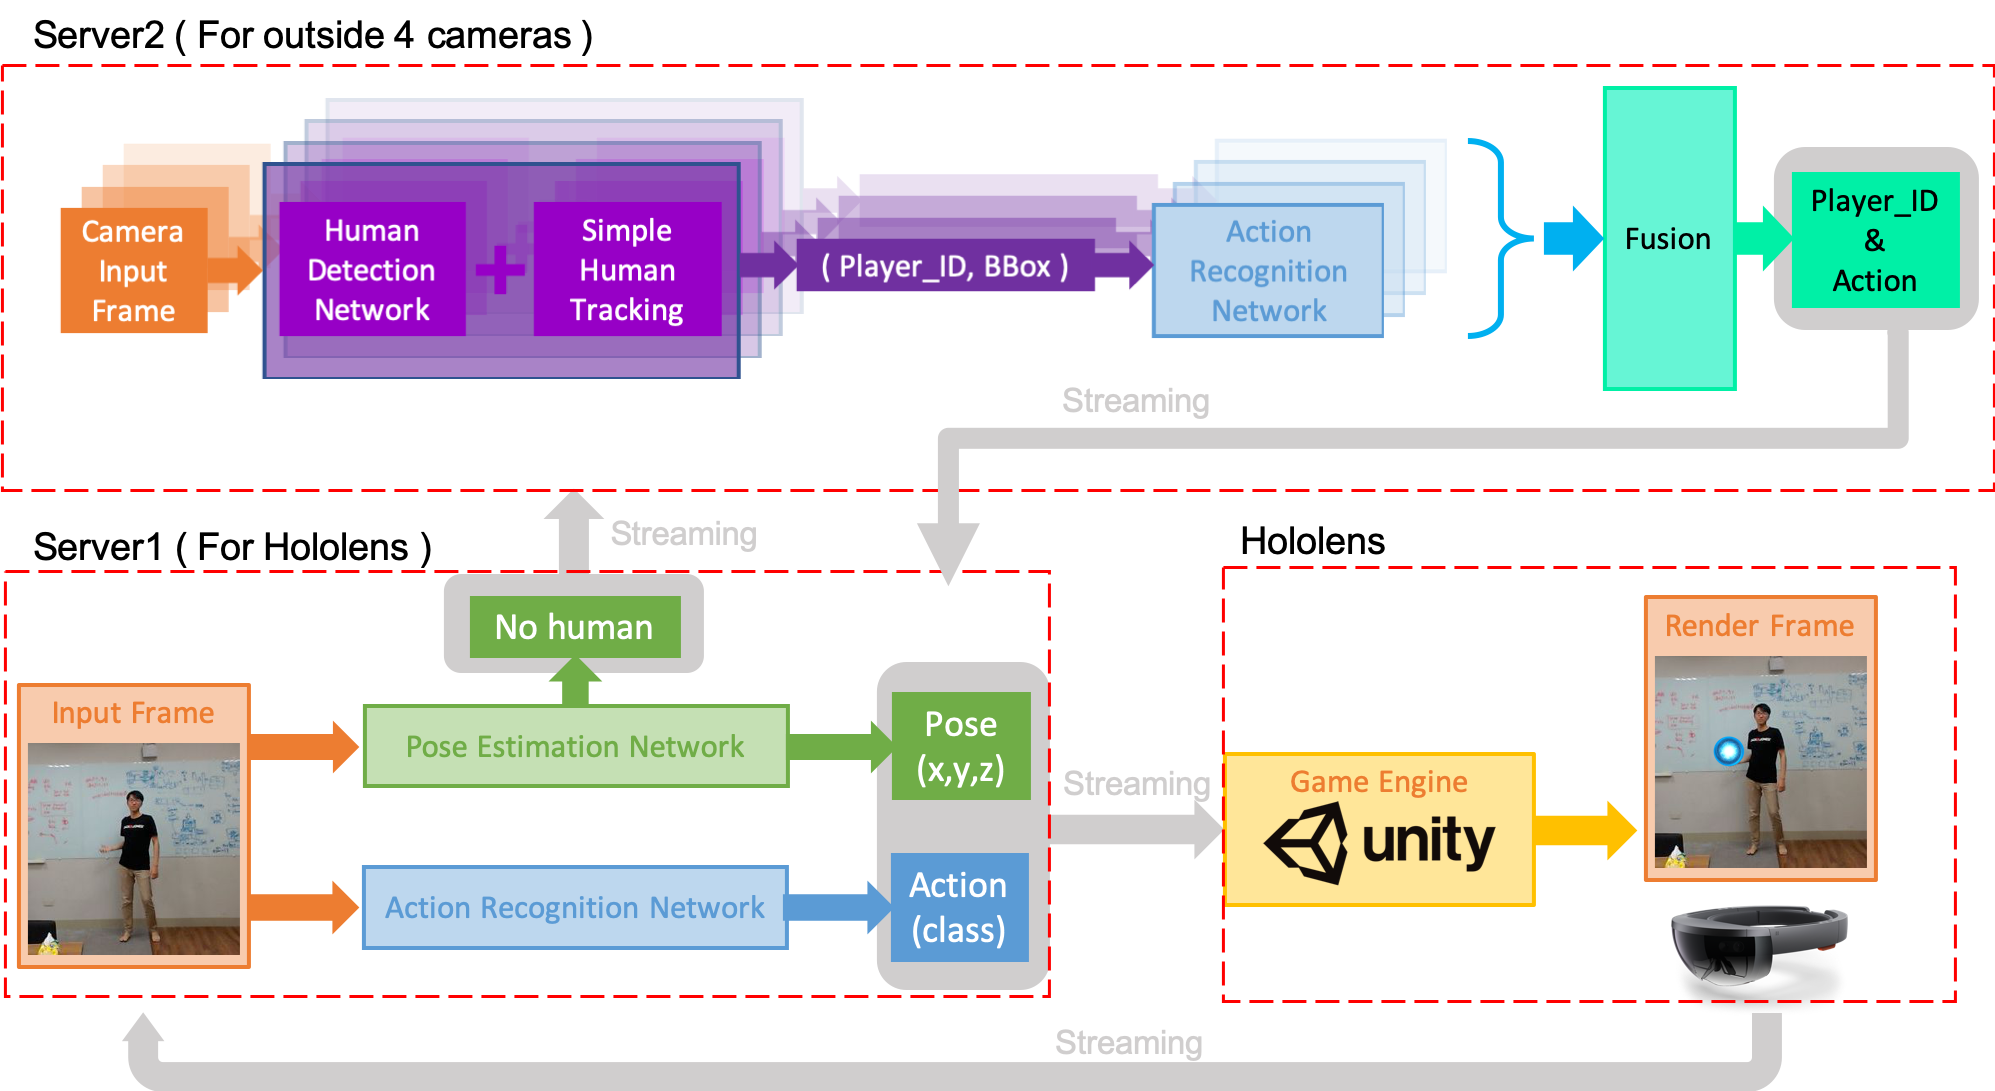
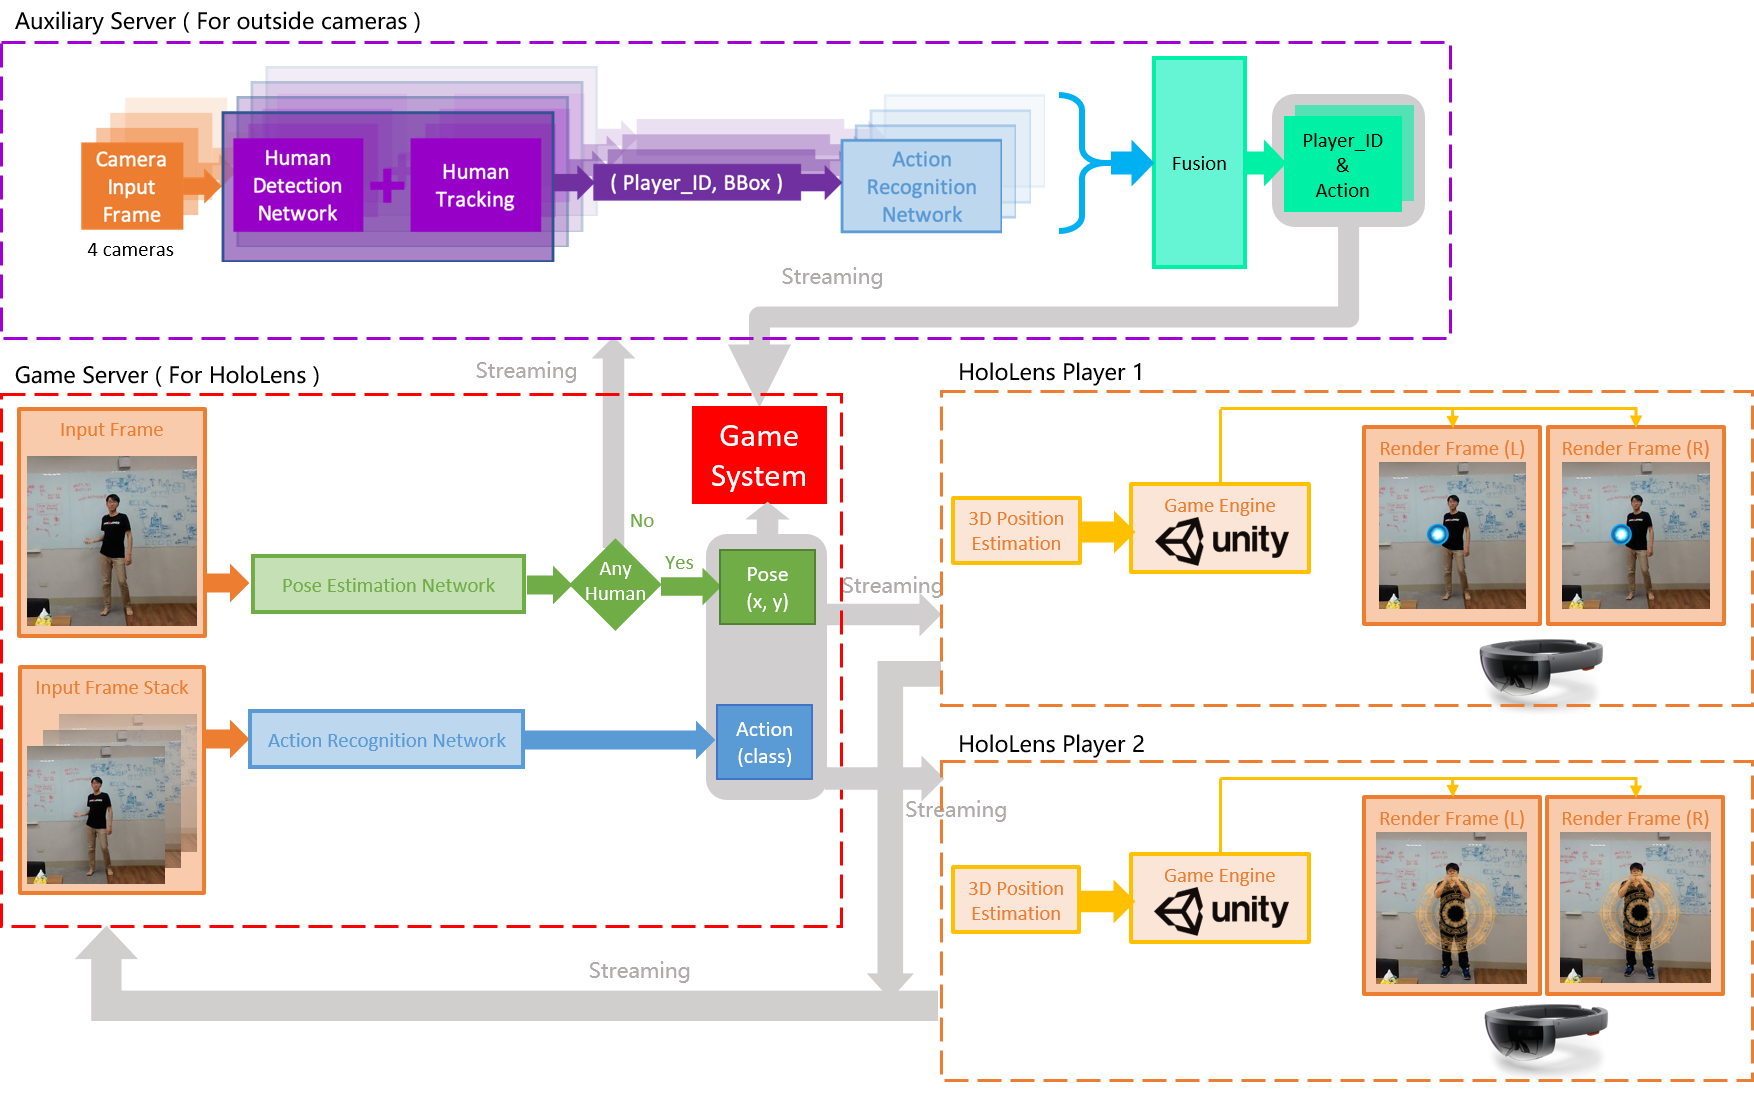
update README

diff --git a/Core/tsn_pytorch/README.md b/Core/tsn_pytorch/README.md
@@ -28,54 +28,8 @@ set PYTHONPATH：
 
 ## Training
 
-To train a new model, use the `main.py` script.
-
-The command to reproduce the original TSN experiments of RGB modality on UCF101 can be 
-
-```bash
-python main.py ucf101 RGB <ucf101_rgb_train_list> <ucf101_rgb_val_list> \
-   --arch BNInception --num_segments 3 \
-   --gd 20 --lr 0.001 --lr_steps 30 60 --epochs 80 \
-   -b 128 -j 8 --dropout 0.8 \
-   --snapshot_pref ucf101_bninception_ 
-```
-
-For flow models:
-
-```bash
-python main.py ucf101 Flow <ucf101_flow_train_list> <ucf101_flow_val_list> \
-   --arch BNInception --num_segments 3 \
-   --gd 20 --lr 0.001 --lr_steps 190 300 --epochs 340 \
-   -b 128 -j 8 --dropout 0.7 \
-   --snapshot_pref ucf101_bninception_ --flow_pref flow_  
-```
-
-For RGB-diff models:
-
-```bash
-python main.py ucf101 RGBDiff <ucf101_rgb_train_list> <ucf101_rgb_val_list> \
-   --arch BNInception --num_segments 7 \
-   --gd 40 --lr 0.001 --lr_steps 80 160 --epochs 180 \
-   -b 128 -j 8 --dropout 0.8 \
-   --snapshot_pref ucf101_bninception_ 
-```
+[tsn_train.py](tsn_train.py)
 
 ## Testing
 
-After training, there will checkpoints saved by pytorch, for example `ucf101_bninception_rgb_checkpoint.pth`.
-
-Use the following command to test its performance in the standard TSN testing protocol:
-
-```bash
-python test_models.py ucf101 RGB <ucf101_rgb_val_list> ucf101_bninception_rgb_checkpoint.pth \
-   --arch BNInception --save_scores <score_file_name>
-
-```
-
-Or for flow models:
- 
-```bash
-python test_models.py ucf101 Flow <ucf101_rgb_val_list> ucf101_bninception_flow_checkpoint.pth \
-   --arch BNInception --save_scores <score_file_name> --flow_pref flow_
-
-```
+[tsn_test.py](tsn_test.py)

diff --git a/README.md b/README.md
@@ -9,7 +9,7 @@
 
 ***
 
-## FlowChart
+## FlowChart and Scenario
 
 玩家穿戴 MR 眼鏡拍攝對手的肢體動作，透過wifi將影像傳送至運算伺服器，根據預訓練之深度類神經網路模型估測出對手的2D人體姿態與動作類別，根據目前做的動作類別，在定義好的骨架節點觸發相對應的特效，將觸發節點之位置與對應特效的資訊傳回AR眼鏡端，由眼鏡裝置繪製特效，產生虛實對應的AR效果。例如 "火影忍者" 當中許多 "忍術" 可以透過此方法把特效添加在真實人物上。
 
@@ -18,7 +18,11 @@
 
 ***
 
-![image](etcs/Flow_Chart2.JPG)
+![image](etcs/my_scene.png)
+
+***
+
+![image](etcs/Scenario.png)
 
 ***
 
@@ -26,15 +30,11 @@
 
 ***
 
-## Server1 & Hololens
-
-![image](etcs/1.png)
-
 ### 例如螺旋丸：  
-![image](etcs/4.gif)
+![image](etcs/2.gif)
 
 ### 在Hololens眼鏡裡面就會看到這樣：  
-![image](etcs/3.JPG)
+![image](etcs/3D_panel_demo.jpg)
 
 ***
 
@@ -123,6 +123,8 @@ Version：
 - pytorch 0.4.1
 - torchvision 0.2.1
 
+***
+
 ## Pose Estimation Network
 
 [OpenPose using Tensorflow](https://github.com/ildoonet/tf-pose-estimation)
@@ -132,3 +134,12 @@ Version：
 ## Action Recognition Network
 
 [TSN using PyTorch](https://github.com/yjxiong/tsn-pytorch)
+
+***
+
+## Quick Start
+
+如果是要搭建沒有 outside camera 的系統，總共需要有一台電腦 + 一台或是兩台HoloLens，PC端運行Server1.py，接著開啟HoloLnes內的程式進行連接。
+
+Server1 的環境搭建 : [Server1 Setup](Server1/README.md)
+HoloLens APP Installation : [HoloLens Setup](Hololens_Unity/README.md)

diff --git a/Server1/README.md b/Server1/README.md
@@ -1,23 +1,7 @@
-# Server(PC端)
+# Server1(PC端)
 
-- TSN_Training：我們必須先把 Action Recognintion Network 訓練好，並產生 .pth 的檔案給 pytorch model 用
-- Run_Hololens：裡面已經包含 OpenPose跟TSN model，可以直接連上 Hololens
+Server1 這邊總共需要用到2個建立 Deep Learning 環境的資料夾 [OpenPose_TF](../Core/OpenPose_TF/README.md) 、 [tsn_pytorch](../Core/tsn_pytorch/README.md)。
 
-***
+環境設定完畢後，就可以運行 [Server1.py](Server1.py)。
 
-## TSN_Training
-
-Training 時，到資料夾內執行：  
-```python main_two_class.py ucf101 RGB D:\Dataset\Action\my_dataset\my_train.txt D:\Dataset\Action\my_dataset\my_test.txt --arch resnet34 --num_segments 3 --gd 20 --lr 0.001 --lr_steps 30 60 --epochs 60 -b 16 -j 0 --dropout 0.8 --gpus 0```
-*my_train.txt 跟 my_test.txt 怎麼產生的可以到 my_dataset 資料夾裡面看一下說明.txt*
-
-
-Testing 時，到資料夾內執行：  
-```python run_ex_two_class.py ucf101 RGB D:\Dataset\Action\my_dataset\my_test.txt _rgb_checkpoint.pth.tar --arch resnet34```
-
-***
-
-## Run_Hololens
-
-裡面已經包含OpenPose的code跟TSN的code，執行run_holo.py即可。
-不過如果要連Hololens，要先去Hololens打開```OPENCV_3```這個APP，接著才去Server端執行run_holo.py，才可連線成功。
+接著再把 HoloLens 程式開啟即可銜接，開始遊戲。[HoloLens Setup](../Hololens_Unity/README.md)

diff --git a/Hololens_Unity/README.md b/Hololens_Unity/README.md
@@ -1,1 +1,26 @@
-## Hololens for Unity
+## HoloLens for Unity
+
+要從Unity編譯到HoloLens裡面，需進行兩段編譯。Unity編譯時的設定如下：
+
+![image](../etcs/Unity_Setting.JPG)
+
+務必確認：
+1. Scenes In Bulid
+2. Build Settings
+3. Player Settings 裡面的 Capabilities
+
+此時在 "Scenes In Build" 裡面把這 5 個Scenes按照順序新增(要按照順序，右邊有index)，新增完之後右邊的Player Settings要需要調整一下，都設定好了之後按下 Build 開始建置，這個步驟可能需要花2分鐘左右，這部分就是第一段編譯。
+
+建置完畢後後打開資料夾，選擇 ".sln" 執行Visual Studio，到裡面進行第二段編譯。
+
+![image](../etcs/Second_Compile.JPG)
+
+到Visual Studio裡面，上面哪一排設定要設定好，選擇Release x86，Device選擇HoloLens，我自己是透過USB讓HoloLens跟PC連接。
+
+![image](../etcs/Second_Compile_VS.JPG)
+
+編譯完之後，HoloLens就會自動執行程式了，這就是第二段編譯，整個過程大概需要2分鐘，然後在這2分鐘的過程，不能讓HoloLens睡眠，螢幕須一直亮著，否則會error。
+
+到這邊HoloLens端的程式已經建立完成。若[Server1](../Server1/README.md)的環境也都建立好，就可以開始遊戲。
+
+Note : Server1.py 需要先在PC上運行，也只需要運行一次(一直開著)，HoloLens可隨時開啟遊戲與PC串接。

diff --git a/Server2/README.md b/Server2/README.md
@@ -1,0 +1,3 @@
+# Server2(PC端)
+
+This Server is for outside cameras.
